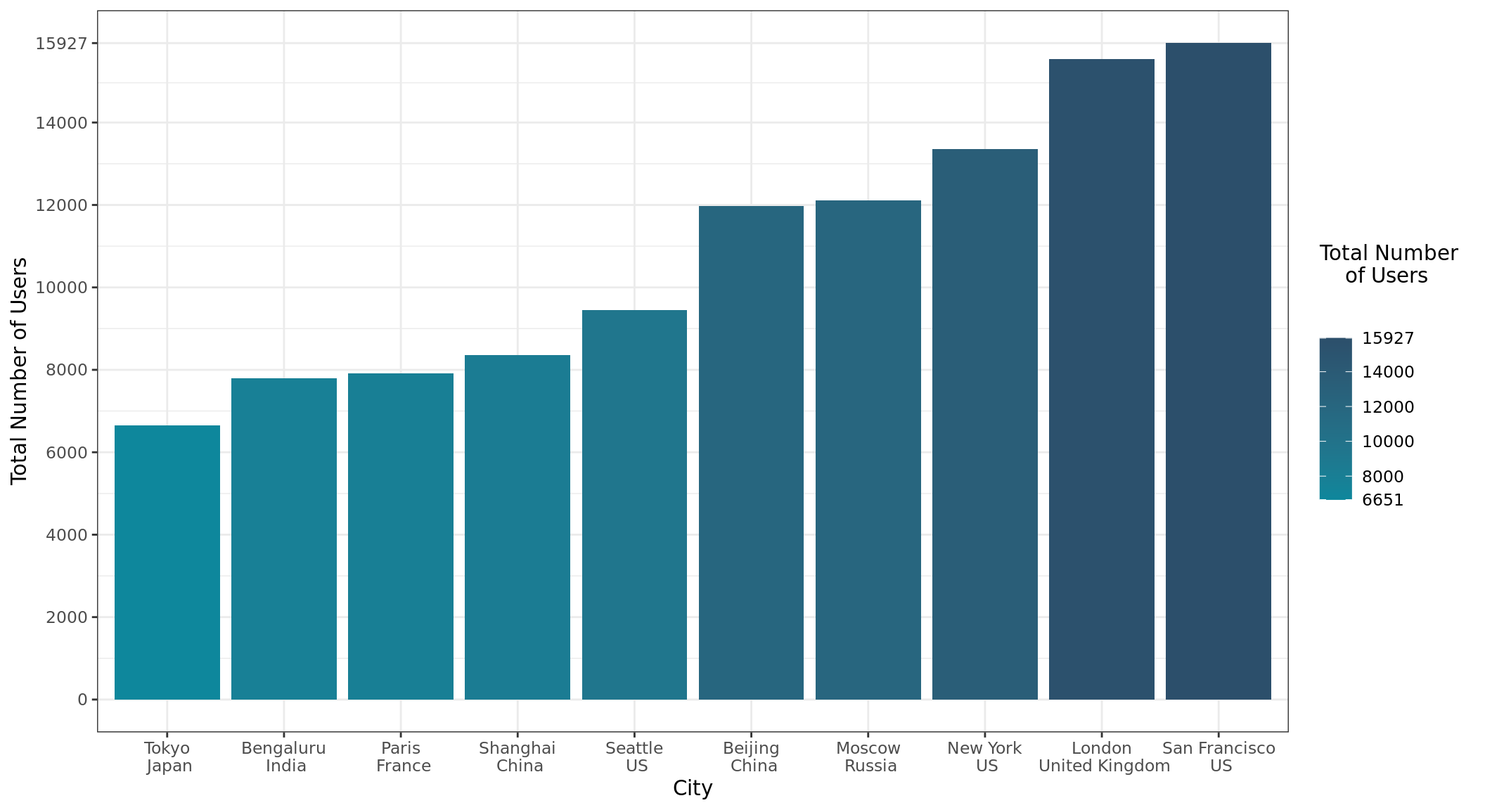
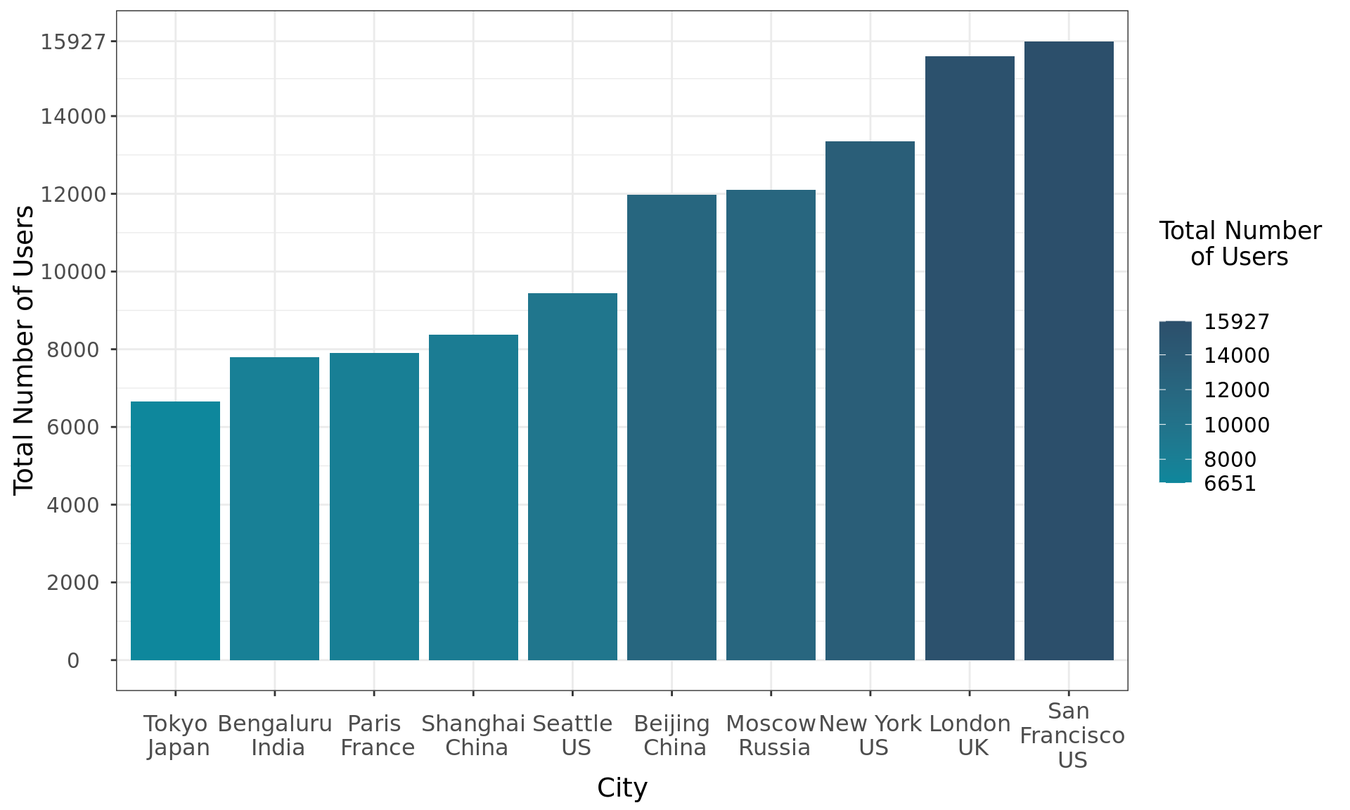
update geographic web page

diff --git a/docs/findings/geographic.knit/index.html b/docs/findings/geographic.knit/index.html
@@ -3,8 +3,8 @@
     <head>
         <meta charset="utf-8">
         <meta name="viewport" content="width=device-width, initial-scale=1">
-        <title>OSS in the Business Sector</title>
-        <link rel="canonical" href="../../findings/business/">
+        <title>Geographical Analyses of GitHub Users</title>
+        <link rel="canonical" href="../../findings/geographic.knit/">
         <style>
 
     html body {
@@ -113,14 +113,14 @@ $(document).ready(function(){
     
     
     
-    <meta property="og:title" content="OSS in the Business Sector">
+    <meta property="og:title" content="Geographical Analyses of GitHub Users">
     <meta property="og:type" content="article">
       
       <meta name="twitter:card" content="summary">
       <meta name="twitter:image" content="/favicon/uva-dspg-logo.jpg" >
       
-    <meta property="description" content="Project description here">
-    <meta property="og:description" content="Project description here">
+    <meta property="description" content="This page focuses on mapping GitHub users around the world.">
+    <meta property="og:description" content="This page focuses on mapping GitHub users around the world.">
     
     <meta name="twitter:creator" content="">
     <meta name="twitter:site" content="">
@@ -138,7 +138,7 @@ $(document).ready(function(){
         <nav class="navbar navbar-default navbar-fixed-top">
             <div class="container">
                 <div class="navbar-header">
-                    <a class="navbar-brand visible-xs" href="#">OSS in the Business Sector</a>
+                    <a class="navbar-brand visible-xs" href="#">Geographical Analyses of GitHub Users</a>
                     <button class="navbar-toggle" data-target=".navbar-collapse" data-toggle="collapse">
                         <span class="icon-bar"></span>
                         <span class="icon-bar"></span>
@@ -193,33 +193,54 @@ $(document).ready(function(){
       
     
 
-    <h4><a href="../../findings/business/">OSS in the Business Sector</a></h4>
+    <h4><a href="../../findings/geographic.knit/">Geographical Analyses of GitHub Users</a></h4>
     
-    <h5>Project description here</h5>
+    <h5>This page focuses on mapping GitHub users around the world.</h5>
 
     
     
-    <a href="../../tags/python">
-        <kbd class="item-tag"> python </kbd>
+    <a href="../../tags/r">
+        <kbd class="item-tag"> R </kbd>
     </a>
     
-    <a href="../../tags/nlp">
-        <kbd class="item-tag"> nlp </kbd>
+    <a href="../../tags/text-analysis/regex">
+        <kbd class="item-tag"> text analysis/regex </kbd>
     </a>
     
-    <a href="../../tags/regex">
-        <kbd class="item-tag"> regex </kbd>
+    <a href="../../tags/matching">
+        <kbd class="item-tag"> matching </kbd>
     </a>
     
-    <a href="../../tags/big-data">
-        <kbd class="item-tag"> big data </kbd>
+    <a href="../../tags/interactive-map">
+        <kbd class="item-tag"> interactive map </kbd>
     </a>
     
 
 </div>
 
 
-    <br> <div class="text-justify"><p>Our analyses are underway&hellip;</p>
+    <br> <div class="text-justify"><!-- raw HTML omitted -->
+<!-- raw HTML omitted -->
+<h3 id="approach">Approach</h3>
+<p>To analyze GitHub users by different geographical units, we used regular expressions to recode all self-reported location data available in the <a href="https://ghtorrent.org/">GHTorrrent</a> data, finding ~770,000 users with valid country codes. In addition to this self-reported location data, GHTorrent also provides latitude and longitude information for GitHub users (assigned using the <a href="">Open Street Maps API</a>). Drawing on these geocoded data, we aggregated all latitude and longitude information that were within a 2-degree difference. Although this data reduction approach is somewhat crude, the main purpose of this assignment is to cluster users with a common &ldquo;city code&rdquo; so that we can examine how users collaborate between more specific geographic units. In turn, we used these city codes to construct networks where nodes represent GitHub users and edges correspond to the number of shared repositories that users can contributed. While 77.23% of the geographic information were originally missing, we were still able to map 488104 GitHub users in our final analyses of GitHub users by city.</p>
+<h3 id="github-users-by-continent">GitHub Users by Continent</h3>
+<p>North America is the continent with the highest number of GitHub users - followed by Europe and Asia. This effectively means that almost all OSS is produced within the context of these three continents with South America, Oceania and Africa lagging far behind. In a sense, these results may speak to other measures of global inequities across the world, which may prevent developers in poorer countries for developing OSS. To better understand global patterns of collaboration within the OSS community, we will later reduce our data into six continental networks and investigate collaborations within and across these networks.</p>
+<p><!-- raw HTML omitted --></p>
+<h3 id="github-users-by-country">GitHub Users by Country</h3>
+<p>The United States has the highest number of GitHub users (N=166,140) with nearly four times as much as China (N=38,391). This discrepency may be because GitHub started in the US and that other web hosting platforms are used in other parts of the world. On the other hand, these results may also indicate that the US is a global power house in terms of producing OSS software. Of course, as we look further down the graph, we see the difference in overall users are much smaller between the United Kingdom, India, Russia, and the rest of the countries in the top-10. Our team is currently developing a paper that examines historical patterns of international collaboration on GitHub, which will elucidate these preliminary findings in more detail.</p>
+<p><!-- raw HTML omitted --></p>
+<h3 id="github-users-in-the-united-states">GitHub Users in the United States</h3>
+<p>As we mentioned above, the US has the largest number of GitHub users. To get a better understanding of where they are located, we used the <a href="https://github.com/hrbrmstr/statebins">statebins package</a> to map users by state. As we see here, GitHub users are mostly located on the West and East coasts with California, New Jersey, Washington, Texas, and Massachusetts being the top-five ranked states. In our future work, we will be looking more into how users across different sectors account for this variation between states. Of course, these maps also point to influence that that major tech hubs, like Silicon Valley in California and Silicon Hills in Texas, have had on the development on OSS.</p>
+<p><!-- raw HTML omitted --></p>
+<h3 id="github-users-by-city">GitHub Users by City</h3>
+<p>When we looked deeper into where GitHub users are located at the city level, we found that San Francisco (US) is the city with the highest number of GitHub users - followed by London (UK), New York (US), Moscow (Russia), and Beijing (China). Again, these results speak to the importance of the tech industry in shaping OSS development, as San Francisco&rsquo;s prominence in tech has clearly spilled over into publicly available innovation tools. In our future research, we plan to delve deeper into collaboration networks between these cities. Knowing, for example, how often developers share resources between cities not only tells us where OSS users live but where collaborative ventures might be most successful.</p>
+<p><!-- raw HTML omitted --></p>
+<h3 id="interactive-map-of-github-users-by-city">Interactive Map of GitHub Users by City</h3>
+<p>In this interactive map, the size of the circle indicates how many GitHub users reported living or working in each city. While the majority of the cities are plotted in blue, we have highlighted the top-10 cities seen above in orange. You can zoom in and hover over the circle to see how many users are in that city or you can also type in a city of interest in the top-right corner. Overall, this map shows clearly that we need to continue looking closer into smaller geographical units when analyzing OSS production.</p>
+<!-- raw HTML omitted -->
+<!-- raw HTML omitted -->
+<h3 id="limitations-and-future-steps">Limitations and Future Steps</h3>
+<p>[Please explain the limitations of your approach. For example, using a US-based dataset likely means you more accurately counted these instiutions. You could also explain what the next steps to your work would be.]</p>
 </div>
 
     

diff --git a/docs/findings/geographic.utf8/index.html b/docs/findings/geographic.utf8/index.html
@@ -3,8 +3,8 @@
     <head>
         <meta charset="utf-8">
         <meta name="viewport" content="width=device-width, initial-scale=1">
-        <title>OSS in the Business Sector</title>
-        <link rel="canonical" href="../../findings/business/">
+        <title>Geographical Analyses of GitHub Users</title>
+        <link rel="canonical" href="../../findings/geographic.utf8/">
         <style>
 
     html body {
@@ -113,14 +113,14 @@ $(document).ready(function(){
     
     
     
-    <meta property="og:title" content="OSS in the Business Sector">
+    <meta property="og:title" content="Geographical Analyses of GitHub Users">
     <meta property="og:type" content="article">
       
       <meta name="twitter:card" content="summary">
       <meta name="twitter:image" content="/favicon/uva-dspg-logo.jpg" >
       
-    <meta property="description" content="Project description here">
-    <meta property="og:description" content="Project description here">
+    <meta property="description" content="This page focuses on mapping GitHub users around the world.">
+    <meta property="og:description" content="This page focuses on mapping GitHub users around the world.">
     
     <meta name="twitter:creator" content="">
     <meta name="twitter:site" content="">
@@ -138,7 +138,7 @@ $(document).ready(function(){
         <nav class="navbar navbar-default navbar-fixed-top">
             <div class="container">
                 <div class="navbar-header">
-                    <a class="navbar-brand visible-xs" href="#">OSS in the Business Sector</a>
+                    <a class="navbar-brand visible-xs" href="#">Geographical Analyses of GitHub Users</a>
                     <button class="navbar-toggle" data-target=".navbar-collapse" data-toggle="collapse">
                         <span class="icon-bar"></span>
                         <span class="icon-bar"></span>
@@ -193,33 +193,53 @@ $(document).ready(function(){
       
     
 
-    <h4><a href="../../findings/business/">OSS in the Business Sector</a></h4>
+    <h4><a href="../../findings/geographic.utf8/">Geographical Analyses of GitHub Users</a></h4>
     
-    <h5>Project description here</h5>
+    <h5>This page focuses on mapping GitHub users around the world.</h5>
 
     
     
-    <a href="../../tags/python">
-        <kbd class="item-tag"> python </kbd>
+    <a href="../../tags/r">
+        <kbd class="item-tag"> R </kbd>
     </a>
     
-    <a href="../../tags/nlp">
-        <kbd class="item-tag"> nlp </kbd>
+    <a href="../../tags/text-analysis/regex">
+        <kbd class="item-tag"> text analysis/regex </kbd>
     </a>
     
-    <a href="../../tags/regex">
-        <kbd class="item-tag"> regex </kbd>
+    <a href="../../tags/matching">
+        <kbd class="item-tag"> matching </kbd>
     </a>
     
-    <a href="../../tags/big-data">
-        <kbd class="item-tag"> big data </kbd>
+    <a href="../../tags/interactive-map">
+        <kbd class="item-tag"> interactive map </kbd>
     </a>
     
 
 </div>
 
 
-    <br> <div class="text-justify"><p>Our analyses are underway&hellip;</p>
+    <br> <div class="text-justify"><!-- raw HTML omitted -->
+<!-- raw HTML omitted -->
+<h3 id="approach">Approach</h3>
+<p>To analyze GitHub users by different geographical units, we used regular expressions to recode all self-reported location data available in the <a href="https://ghtorrent.org/">GHTorrrent</a> data, finding ~770,000 users with valid country codes. In addition to this self-reported location data, GHTorrent also provides latitude and longitude information for GitHub users (assigned using the <a href="">Open Street Maps API</a>). Drawing on these geocoded data, we aggregated all latitude and longitude information that were within a 2-degree difference. Although this data reduction approach is somewhat crude, the main purpose of this assignment is to cluster users with a common &ldquo;city code&rdquo; so that we can examine how users collaborate between more specific geographic units. In turn, we used these city codes to construct networks where nodes represent GitHub users and edges correspond to the number of shared repositories that users can contributed. While 77.23% of the geographic information were originally missing, we were still able to map 488104 GitHub users in our final analyses of GitHub users by city.</p>
+<h3 id="github-users-by-continent">GitHub Users by Continent</h3>
+<p>North America is the continent with the highest number of GitHub users - followed by Europe and Asia. This effectively means that almost all OSS is produced within the context of these three continents with South America, Oceania and Africa lagging far behind. In a sense, these results may speak to other measures of global inequities across the world, which may prevent developers in poorer countries for developing OSS. To better understand global patterns of collaboration within the OSS community, we will later reduce our data into six continental networks and investigate collaborations within and across these networks.</p>
+<p><!-- raw HTML omitted --></p>
+<h3 id="github-users-by-country">GitHub Users by Country</h3>
+<p>The United States has the highest number of GitHub users (N=166,140) with nearly four times as much as China (N=38,391). This discrepency may be because GitHub started in the US and that other web hosting platforms are used in other parts of the world. On the other hand, these results may also indicate that the US is a global power house in terms of producing OSS software. Of course, as we look further down the graph, we see the difference in overall users are much smaller between the United Kingdom, India, Russia, and the rest of the countries in the top-10. Our team is currently developing a paper that examines historical patterns of international collaboration on GitHub, which will elucidate these preliminary findings in more detail.</p>
+<p><!-- raw HTML omitted --></p>
+<h3 id="github-users-in-the-united-states">GitHub Users in the United States</h3>
+<p>As we mentioned above, the US has the largest number of GitHub users. To get a better understanding of where they are located, we used the <a href="https://github.com/hrbrmstr/statebins">statebins package</a> to map users by state. As we see here, GitHub users are mostly located on the West and East coasts with California, New Jersey, Washington, Texas, and Massachusetts being the top-five ranked states. In our future work, we will be looking more into how users across different sectors account for this variation between states. Of course, these maps also point to influence that that major tech hubs, like Silicon Valley in California and Silicon Hills in Texas, have had on the development on OSS.</p>
+<p><!-- raw HTML omitted --></p>
+<h3 id="github-users-by-city">GitHub Users by City</h3>
+<p>When we looked deeper into where GitHub users are located at the city level, we found that San Francisco (US) is the city with the highest number of GitHub users - followed by London (UK), New York (US), Moscow (Russia), and Beijing (China). Again, these results speak to the importance of the tech industry in shaping OSS development, as San Francisco&rsquo;s prominence in tech has clearly spilled over into publicly available innovation tools. In our future research, we plan to delve deeper into collaboration networks between these cities. Knowing, for example, how often developers share resources between cities not only tells us where OSS users live but where collaborative ventures might be most successful.</p>
+<p><!-- raw HTML omitted --></p>
+<h3 id="interactive-map-of-github-users-by-city">Interactive Map of GitHub Users by City</h3>
+<p>In this interactive map, the size of the circle indicates how many GitHub users reported living or working in each city. While the majority of the cities are plotted in blue, we have highlighted the top-10 cities seen above in orange. You can zoom in and hover over the circle to see how many users are in that city or you can also type in a city of interest in the top-right corner. Overall, this map shows clearly that we need to continue looking closer into smaller geographical units when analyzing OSS production.</p>
+<p>preserve3a8e38afb204c467</p>
+<h3 id="limitations-and-future-steps">Limitations and Future Steps</h3>
+<p>[Please explain the limitations of your approach. For example, using a US-based dataset likely means you more accurately counted these instiutions. You could also explain what the next steps to your work would be.]</p>
 </div>
 
     

diff --git a/docs/findings/geographic/index.html b/docs/findings/geographic/index.html
@@ -95,7 +95,7 @@ $(document).ready(function(){
   })
 });
 </script>
- <meta name="generator" content="Hugo 0.74.1" />
+ <meta name="generator" content="Hugo 0.74.3" />
         <link href="" rel="alternate" type="application/rss+xml" title="UVA Biocomplexity Institute" />
         <link href="" rel="feed" type="application/rss+xml" title="UVA Biocomplexity Institute" />
         
@@ -262,12 +262,12 @@ h1, h2, h3 {
 <div id="github-users-in-the-united-states" class="section level3">
 <h3>GitHub Users in the United States</h3>
 <p>As we mentioned above, the US has the largest number of GitHub users. To get a better understanding of where they are located, we used the <a href="https://github.com/hrbrmstr/statebins">statebins package</a> to map users by state. As we see here, GitHub users are mostly located on the West and East coasts with California, New Jersey, Washington, Texas, and Massachusetts being the top-five ranked states. In our future work, we will be looking more into how users across different sectors account for this variation between states. Of course, these maps also point to influence that that major tech hubs, like Silicon Valley in California and Silicon Hills in Texas, have had on the development on OSS.</p>
-<p><img src="../../findings/geographic_files/figure-html/unnamed-chunk-4-1.png" width="912" /></p>
+<p><img src="../../findings/geographic_files/figure-html/unnamed-chunk-4-1.png" width="672" /></p>
 </div>
 <div id="github-users-by-city" class="section level3">
 <h3>GitHub Users by City</h3>
 <p>When we looked deeper into where GitHub users are located at the city level, we found that San Francisco (US) is the city with the highest number of GitHub users - followed by London (UK), New York (US), Moscow (Russia), and Beijing (China). Again, these results speak to the importance of the tech industry in shaping OSS development, as San Francisco's prominence in tech has clearly spilled over into publicly available innovation tools. In our future research, we plan to delve deeper into collaboration networks between these cities. Knowing, for example, how often developers share resources between cities not only tells us where OSS users live but where collaborative ventures might be most successful.</p>
-<p><img src="../../findings/geographic_files/figure-html/unnamed-chunk-5-1.png" width="1056" /></p>
+<p><img src="../../findings/geographic_files/figure-html/unnamed-chunk-5-1.png" width="960" /></p>
 </div>
 <div id="interactive-map-of-github-users-by-city" class="section level3">
 <h3>Interactive Map of GitHub Users by City</h3>
@@ -277,7 +277,7 @@ h1, h2, h3 {
 </div>
 <div id="limitations-and-future-steps" class="section level3">
 <h3>Limitations and Future Steps</h3>
-<p>[Please explain the limitations of your approach. For example, using a US-based dataset likely means you more accurately counted these instiutions. You could also explain what the next steps to your work would be.]</p>
+<p>Our city code relies on the geocode provided by the Open Street Maps API, we will further evaluate the validity of the geocode and compare it with the user-input location. We identified users who reside in multiple countries, but we don't have multiple geocodes to reflect both/all of their locations. Currently, we counted the total number of users recide in each city. Futher, we would like to account for the population in each city to reflect the total number of GitHub users per capita.</p>
 </div>
 </div>
 

diff --git a/content/findings/geographic.html b/content/findings/geographic.html
@@ -55,12 +55,12 @@ h1, h2, h3 {
 <div id="github-users-in-the-united-states" class="section level3">
 <h3>GitHub Users in the United States</h3>
 <p>As we mentioned above, the US has the largest number of GitHub users. To get a better understanding of where they are located, we used the <a href="https://github.com/hrbrmstr/statebins">statebins package</a> to map users by state. As we see here, GitHub users are mostly located on the West and East coasts with California, New Jersey, Washington, Texas, and Massachusetts being the top-five ranked states. In our future work, we will be looking more into how users across different sectors account for this variation between states. Of course, these maps also point to influence that that major tech hubs, like Silicon Valley in California and Silicon Hills in Texas, have had on the development on OSS.</p>
-<p><img src="/findings/geographic_files/figure-html/unnamed-chunk-4-1.png" width="912" /></p>
+<p><img src="/findings/geographic_files/figure-html/unnamed-chunk-4-1.png" width="672" /></p>
 </div>
 <div id="github-users-by-city" class="section level3">
 <h3>GitHub Users by City</h3>
 <p>When we looked deeper into where GitHub users are located at the city level, we found that San Francisco (US) is the city with the highest number of GitHub users - followed by London (UK), New York (US), Moscow (Russia), and Beijing (China). Again, these results speak to the importance of the tech industry in shaping OSS development, as San Francisco's prominence in tech has clearly spilled over into publicly available innovation tools. In our future research, we plan to delve deeper into collaboration networks between these cities. Knowing, for example, how often developers share resources between cities not only tells us where OSS users live but where collaborative ventures might be most successful.</p>
-<p><img src="/findings/geographic_files/figure-html/unnamed-chunk-5-1.png" width="1056" /></p>
+<p><img src="/findings/geographic_files/figure-html/unnamed-chunk-5-1.png" width="960" /></p>
 </div>
 <div id="interactive-map-of-github-users-by-city" class="section level3">
 <h3>Interactive Map of GitHub Users by City</h3>
@@ -70,5 +70,5 @@ h1, h2, h3 {
 </div>
 <div id="limitations-and-future-steps" class="section level3">
 <h3>Limitations and Future Steps</h3>
-<p>[Please explain the limitations of your approach. For example, using a US-based dataset likely means you more accurately counted these instiutions. You could also explain what the next steps to your work would be.]</p>
+<p>Our city code relies on the geocode provided by the Open Street Maps API, we will further evaluate the validity of the geocode and compare it with the user-input location. We identified users who reside in multiple countries, but we don't have multiple geocodes to reflect both/all of their locations. Currently, we counted the total number of users recide in each city. Futher, we would like to account for the population in each city to reflect the total number of GitHub users per capita.</p>
 </div>

diff --git a/docs/tags/text-analysis/regex/index.html b/docs/tags/text-analysis/regex/index.html
@@ -95,7 +95,7 @@ $(document).ready(function(){
   })
 });
 </script>
- <meta name="generator" content="Hugo 0.74.1" />
+ <meta name="generator" content="Hugo 0.74.3" />
         <link href="../../../tags/text-analysis/regex/index.xml" rel="alternate" type="application/rss+xml" title="UVA Biocomplexity Institute" />
         <link href="../../../tags/text-analysis/regex/index.xml" rel="feed" type="application/rss+xml" title="UVA Biocomplexity Institute" />
         

diff --git a/docs/tags/interactive-map/index.html b/docs/tags/interactive-map/index.html
@@ -95,7 +95,7 @@ $(document).ready(function(){
   })
 });
 </script>
- <meta name="generator" content="Hugo 0.74.1" />
+ <meta name="generator" content="Hugo 0.74.3" />
         <link href="../../tags/interactive-map/index.xml" rel="alternate" type="application/rss+xml" title="UVA Biocomplexity Institute" />
         <link href="../../tags/interactive-map/index.xml" rel="feed" type="application/rss+xml" title="UVA Biocomplexity Institute" />
         

diff --git a/docs/tags/big-data/index.html b/docs/tags/big-data/index.html
@@ -95,7 +95,7 @@ $(document).ready(function(){
   })
 });
 </script>
- <meta name="generator" content="Hugo 0.74.1" />
+ <meta name="generator" content="Hugo 0.74.3" />
         <link href="../../tags/big-data/index.xml" rel="alternate" type="application/rss+xml" title="UVA Biocomplexity Institute" />
         <link href="../../tags/big-data/index.xml" rel="feed" type="application/rss+xml" title="UVA Biocomplexity Institute" />
         

diff --git a/docs/tags/matching/index.html b/docs/tags/matching/index.html
@@ -95,7 +95,7 @@ $(document).ready(function(){
   })
 });
 </script>
- <meta name="generator" content="Hugo 0.74.1" />
+ <meta name="generator" content="Hugo 0.74.3" />
         <link href="../../tags/matching/index.xml" rel="alternate" type="application/rss+xml" title="UVA Biocomplexity Institute" />
         <link href="../../tags/matching/index.xml" rel="feed" type="application/rss+xml" title="UVA Biocomplexity Institute" />
         

diff --git a/docs/tags/python/index.html b/docs/tags/python/index.html
@@ -95,7 +95,7 @@ $(document).ready(function(){
   })
 });
 </script>
- <meta name="generator" content="Hugo 0.74.1" />
+ <meta name="generator" content="Hugo 0.74.3" />
         <link href="../../tags/python/index.xml" rel="alternate" type="application/rss+xml" title="UVA Biocomplexity Institute" />
         <link href="../../tags/python/index.xml" rel="feed" type="application/rss+xml" title="UVA Biocomplexity Institute" />
         

diff --git a/docs/tags/regex/index.html b/docs/tags/regex/index.html
@@ -95,7 +95,7 @@ $(document).ready(function(){
   })
 });
 </script>
- <meta name="generator" content="Hugo 0.74.1" />
+ <meta name="generator" content="Hugo 0.74.3" />
         <link href="../../tags/regex/index.xml" rel="alternate" type="application/rss+xml" title="UVA Biocomplexity Institute" />
         <link href="../../tags/regex/index.xml" rel="feed" type="application/rss+xml" title="UVA Biocomplexity Institute" />
         

diff --git a/docs/tags/nlp/index.html b/docs/tags/nlp/index.html
@@ -95,7 +95,7 @@ $(document).ready(function(){
   })
 });
 </script>
- <meta name="generator" content="Hugo 0.74.1" />
+ <meta name="generator" content="Hugo 0.74.3" />
         <link href="../../tags/nlp/index.xml" rel="alternate" type="application/rss+xml" title="UVA Biocomplexity Institute" />
         <link href="../../tags/nlp/index.xml" rel="feed" type="application/rss+xml" title="UVA Biocomplexity Institute" />
         

diff --git a/docs/categories/index.html b/docs/categories/index.html
@@ -95,7 +95,7 @@ $(document).ready(function(){
   })
 });
 </script>
- <meta name="generator" content="Hugo 0.74.1" />
+ <meta name="generator" content="Hugo 0.74.3" />
         <link href="../categories/index.xml" rel="alternate" type="application/rss+xml" title="UVA Biocomplexity Institute" />
         <link href="../categories/index.xml" rel="feed" type="application/rss+xml" title="UVA Biocomplexity Institute" />
         
